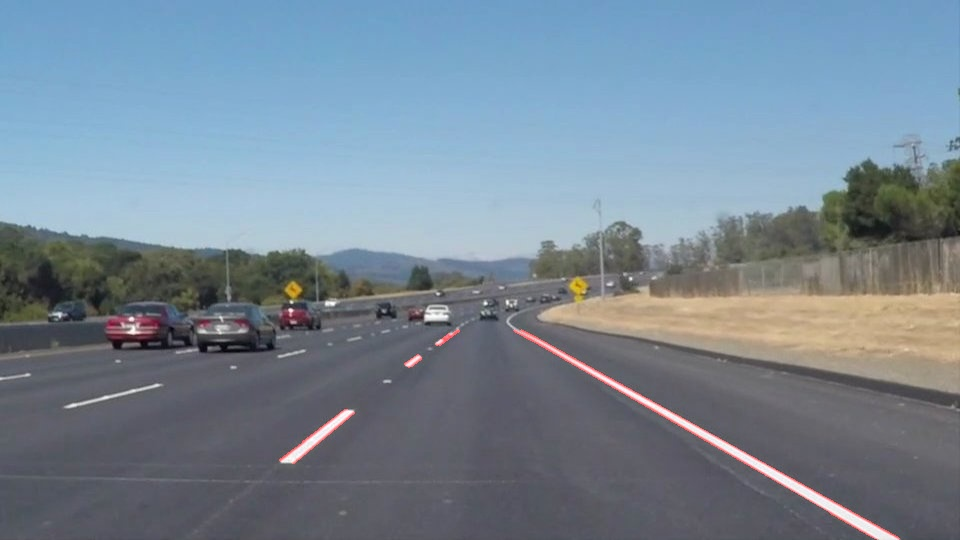
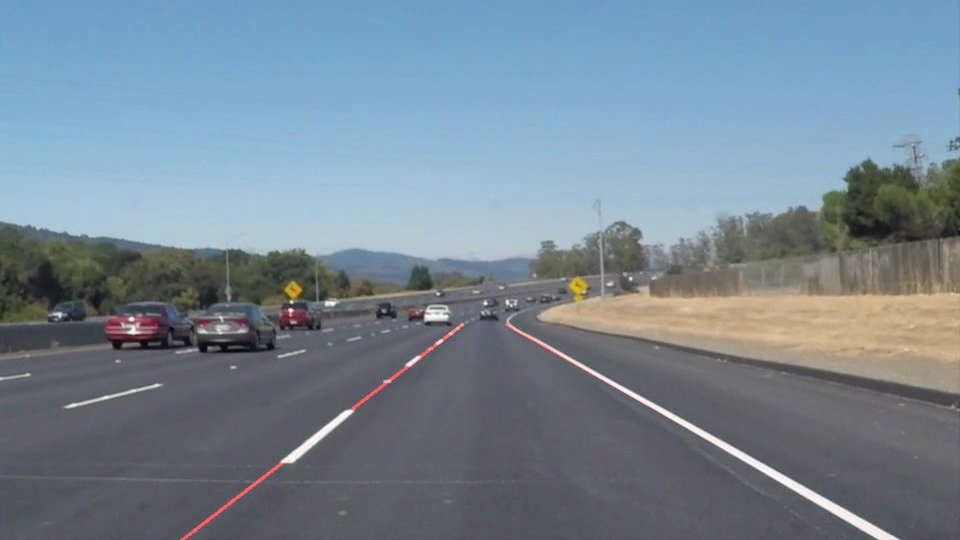
Modified code and first edition of report

diff --git a/report.md b/report.md
@@ -19,9 +19,32 @@ The goals / steps of this project are the following:
 
 ### 1. Describe your pipeline. As part of the description, explain how you modified the draw_lines() function.
 
-My pipeline consisted of 5 steps. First, I converted the images to grayscale, using 'jjj' 
+My pipeline consisted of 5 steps:
 
-In order to draw a single line on the left and right lanes, I modified the draw_lines() function by ...
+First, I converted the images to grayscale, using `grayscale` function.
+
+Second, I used `gaussian_blur` function with `kernel_size = 5` is implemented to blur the image.
+
+Third, I used `canny` function to do the edge detection
+
+Fourth, `region_of_interest` is called to mask the image.
+
+Fifth, I called `hough_lines` to do the hough transformation and it will output line segments.
+
+At last, `weighted_img` is called to draw the detected line segments on the original image.
+
+
+In order to draw a single line on the left and right lanes, I modified the draw_lines() function by sorting the line segments into groups (whether the line segment belong to left line or right line or none) with their gradient:
+
+if the absolute value of the gradient of current line segment is less than 0.5, it is almost a horizontal line and we skip.
+
+Otherwise--
+
+if the gradient of current line segmenmt is less than 0, we append this line segment to left group 
+
+if the gradient of current line segmenmt is greater than 0, we append this line segment to right group
+
+
 
 If you'd like to include images to show how the pipeline works, here is how to include an image: 
 
